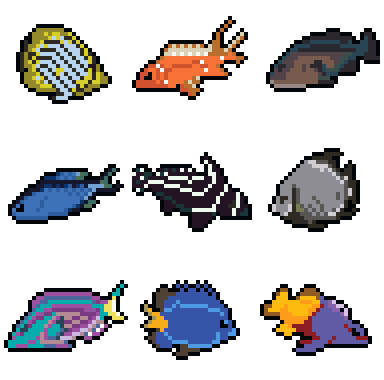
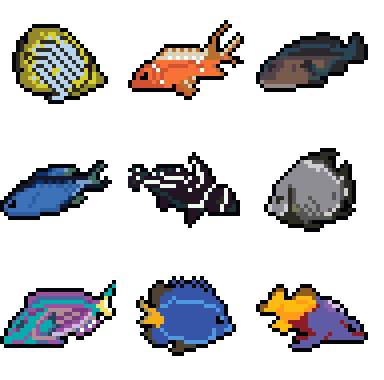
edit cells

diff --git a/components/GamePlay/Cell.js b/components/GamePlay/Cell.js
@@ -58,38 +58,51 @@ const Cell = ({
       style={[
         styles.cellContainer,
         style,
-        isCellSame() && styles.highlightedCell,
         !isEditable && styles.notEditable,
         isCellHinted(),
         isCellSelected() && styles.selectedCell,
       ]}
-      onStartShouldSetResponder={onSelect}
     >
-      {currentCell[2] !== 0 && (
-        <Image
-          source={theme.source}
-          style={[styles.spriteImage, spriteMap[currentCell[2]]]}
-        />
-      )}
+      <View
+        style={[styles.innerContainer, isCellSame() && styles.highlightedCell]}
+        onStartShouldSetResponder={onSelect}
+      >
+        {currentCell[2] !== 0 && (
+          <Image
+            source={theme.source}
+            style={[styles.spriteImage, spriteMap[currentCell[2]]]}
+          />
+        )}
+      </View>
     </View>
   );
 };
 
 const styles = StyleSheet.create({
   cellContainer: {
-    width: width * 0.105,
-    height: width * 0.105,
+    width: width * 0.1,
+    height: width * 0.1,
     backgroundColor: themeStyles.colors.bgcolor1,
-    overflow: "hidden",
-    position: "relative",
     justifyContent: "center",
     alignItems: "center",
+  },
+  innerContainer: {
+    zIndex: 100,
+    width: width * 0.1 - 2,
+    height: width * 0.1 - 2,
+    borderTopWidth: 3,
+    borderLeftWidth: 3,
+    borderBottomWidth: 3,
+    borderRightWidth: 3,
+    borderColor: "transparent", // Default to no border
+    overflow: "hidden",
+    position: "relative",
   },
   spriteImage: {
     aspectRatio: 1,
     position: "absolute",
-    width: width * 0.3,
-    height: width * 0.3,
+    width: width * 0.255,
+    height: width * 0.255,
   },
   hintedCell: {
     backgroundColor: themeStyles.colors.highlight2,
@@ -101,10 +114,6 @@ const styles = StyleSheet.create({
     backgroundColor: themeStyles.colors.highlight1,
   },
   highlightedCell: {
-    borderTopWidth: 3,
-    borderLeftWidth: 3,
-    borderBottomWidth: 3,
-    borderRightWidth: 3,
     borderColor: themeStyles.colors.red,
   },
   notEditable: {

diff --git a/utils/assetsMap.js b/utils/assetsMap.js
@@ -6,14 +6,14 @@ const { width } = Dimensions.get("window");
 // map sprite position to numbers
 export const spriteMap = {
   1: { top: 0, left: 0 },
-  2: { top: 0, left: -width * 0.1 },
-  3: { top: 0, left: -width * 0.2 },
-  4: { top: -width * 0.1, left: 0 },
-  5: { top: -width * 0.1, left: -width * 0.1 },
-  6: { top: -width * 0.1, left: -width * 0.2 },
-  7: { top: -width * 0.2, left: 0 },
-  8: { top: -width * 0.2, left: -width * 0.1 },
-  9: { top: -width * 0.2, left: -width * 0.2 },
+  2: { top: 0, left: -width * 0.085 },
+  3: { top: 0, left: -width * 0.17 },
+  4: { top: -width * 0.085, left: 0 },
+  5: { top: -width * 0.085, left: -width * 0.085 },
+  6: { top: -width * 0.085, left: -width * 0.17 },
+  7: { top: -width * 0.17, left: 0 },
+  8: { top: -width * 0.17, left: -width * 0.085 },
+  9: { top: -width * 0.17, left: -width * 0.17 },
 };
 
 // map sprite position to numbers for input buttons
